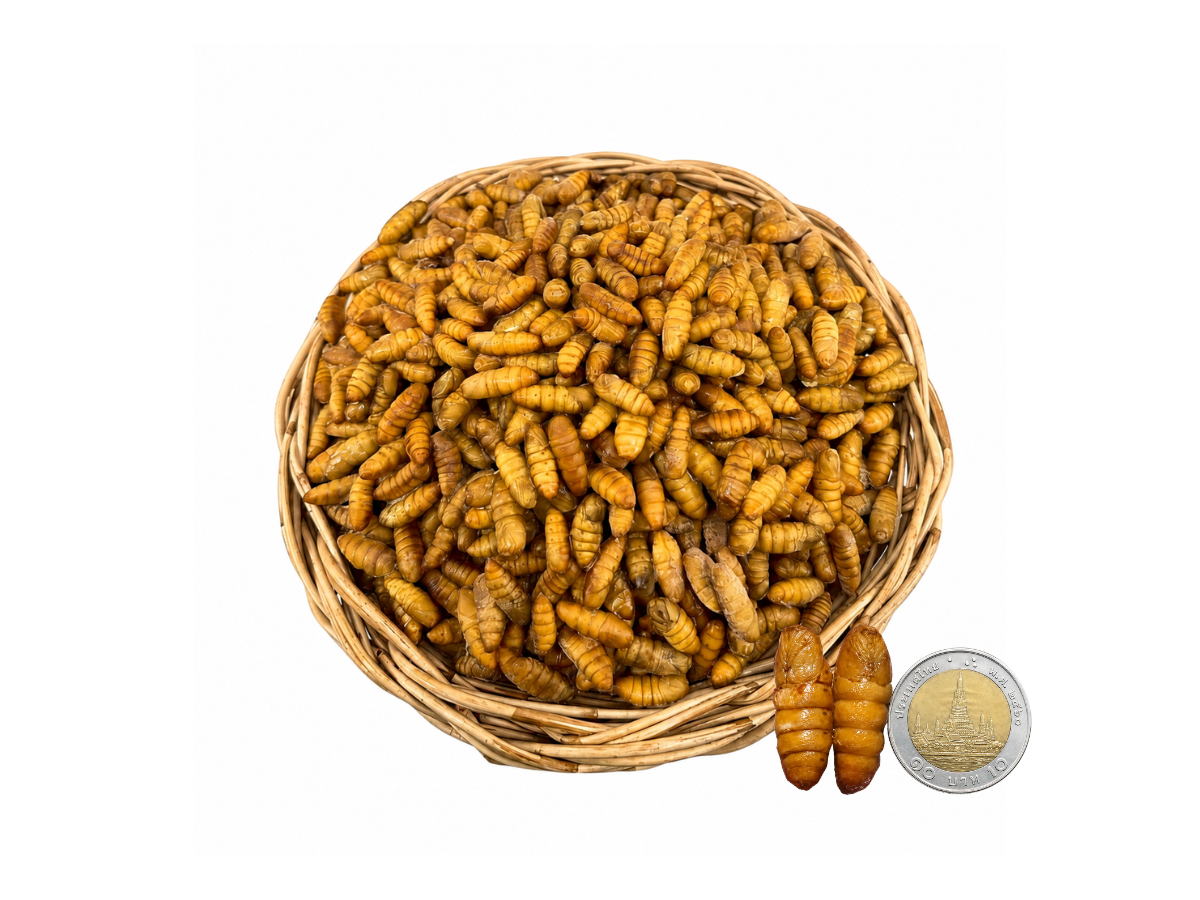
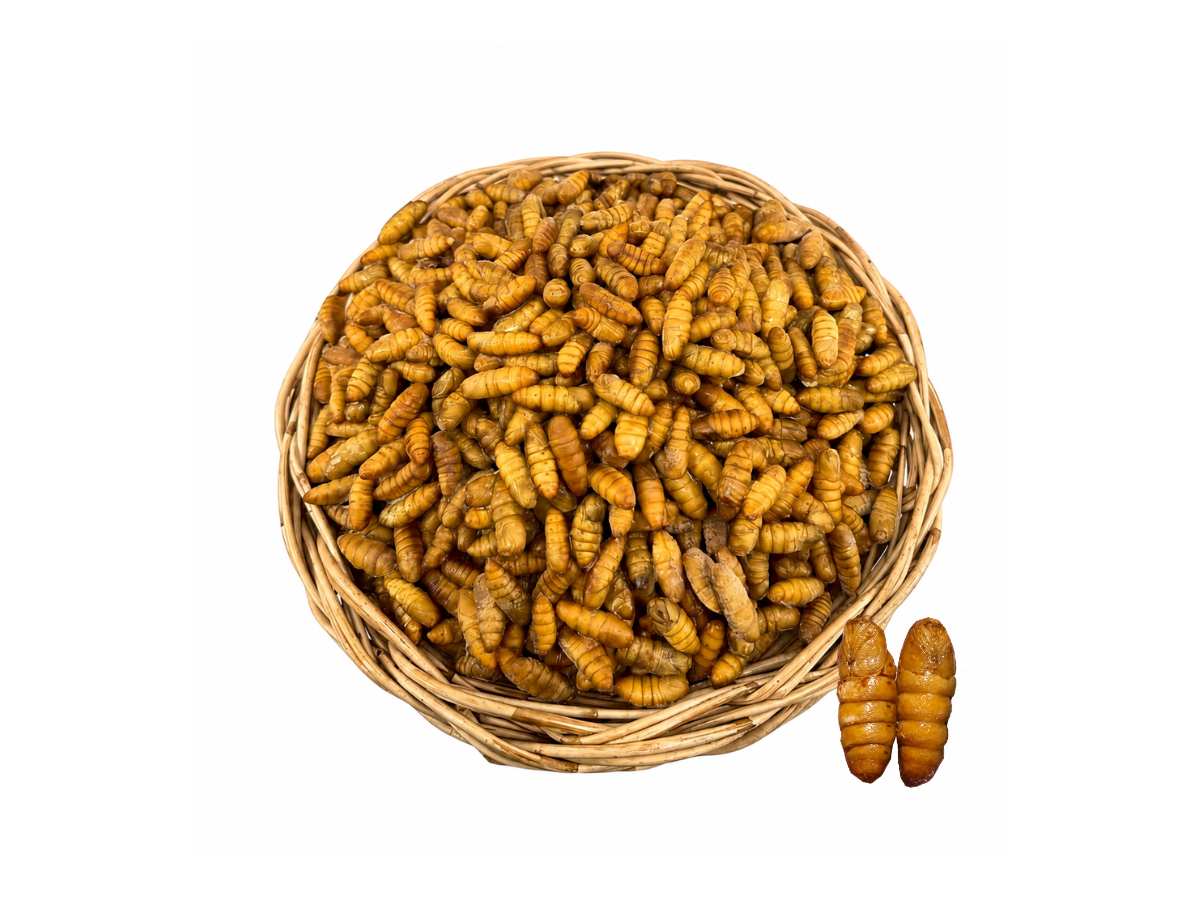
fix(catalog): update silkworm cover image to silkworm2

Changed region(s): [[0.6475, 0.6844, 0.8633, 0.9022]]

diff --git a/src/scripts/fix-silkworm-clean.ts b/src/scripts/fix-silkworm-clean.ts
@@ -25,13 +25,13 @@ try {
 import { getPayload } from 'payload';
 
 async function fixSilkwormClean() {
-  console.log('Initializing Payload for clean silkworm update...');
+  console.log('Initializing Payload for clean silkworm 2 update...');
   const { default: config } = await import('../payload.config');
   const payload = await getPayload({ config });
 
-  const desktopPath = 'C:\\Users\\AVS_KTB\\Desktop\\Sprint\\products\\Silkworm\\หนอนไหม.png';
+  const desktopPath = 'C:\\Users\\AVS_KTB\\Desktop\\Sprint\\products\\Silkworm\\หนอนไหม2.png';
   if (!fs.existsSync(desktopPath)) {
-    console.error('File หนอนไหม.png not found!');
+    console.error('File หนอนไหม2.png not found!');
     return;
   }
   const fileBuffer = fs.readFileSync(desktopPath);
@@ -40,128 +40,40 @@ async function fixSilkwormClean() {
   const cleanFiles = [
     'public/images/products/silkworm.png',
     'public/images/products/silkworm-silkworm.png',
+    'public/images/products/silkworm-1.png',
     'public/media/silkworm.png',
     'public/media/silkworm-silkworm.png',
+    'public/media/silkworm-1.png',
   ];
   for (const relPath of cleanFiles) {
     const fullPath = path.resolve(process.cwd(), relPath);
     fs.writeFileSync(fullPath, fileBuffer);
   }
 
-  // 2. Upload/Create or Update Media document for silkworm
+  // 2. Update Media documents for silkworm
   const existingMedia = await payload.find({
     collection: 'media',
     where: {
       filename: {
-        equals: 'silkworm.png',
+        contains: 'silkworm',
       },
     },
   });
 
-  let mediaId: number;
-  if (existingMedia.docs.length > 0) {
-    mediaId = existingMedia.docs[0].id;
+  for (const doc of existingMedia.docs) {
     await payload.update({
       collection: 'media',
-      id: mediaId,
+      id: doc.id,
       data: {
         alt: 'Frozen silkworm chrysalis seafood product',
-        filename: 'silkworm.png',
-        url: '/api/media/file/silkworm.png',
         filesize: fileBuffer.length,
         mimeType: 'image/png',
       },
     });
-    console.log(`Updated Media doc ID ${mediaId} -> silkworm.png`);
-  } else {
-    const mediaDoc = await payload.create({
-      collection: 'media',
-      data: {
-        alt: 'Frozen silkworm chrysalis seafood product',
-      },
-      file: {
-        data: fileBuffer,
-        name: 'silkworm.png',
-        size: fileBuffer.length,
-        mimetype: 'image/png',
-      },
-    });
-    mediaId = mediaDoc.id;
-    console.log(`Created Media doc ID ${mediaId} -> silkworm.png`);
+    console.log(`Updated Media doc ID ${doc.id} (${doc.filename}) to new silkworm2 buffer`);
   }
 
-  // 3. Update Series 'silkworm' (ID: 48)
-  const seriesDoc = await payload.find({
-    collection: 'series',
-    where: {
-      slug: {
-        equals: 'silkworm',
-      },
-    },
-  });
-  if (seriesDoc.docs.length > 0) {
-    const sId = seriesDoc.docs[0].id;
-    await payload.update({
-      collection: 'series',
-      id: sId,
-      data: {
-        thaiTitle: 'หนอนไหม',
-        englishTitle: 'Frozen Silkworm Chrysalis',
-        image: mediaId,
-        coverImage: mediaId,
-        description: 'หนอนไหมแช่แข็งเกรดคัดสรรพิเศษ อวบอ้วนสะอาด ปลอดภัย',
-      },
-    });
-    console.log(`Updated Series DB ID ${sId} -> หนอนไหม / Frozen Silkworm Chrysalis`);
-  }
-
-  // 4. Update ProductLines 'silkworm' (ID: 40)
-  const lineDoc = await payload.find({
-    collection: 'product-lines',
-    where: {
-      slug: {
-        equals: 'silkworm',
-      },
-    },
-  });
-  if (lineDoc.docs.length > 0) {
-    const lId = lineDoc.docs[0].id;
-    await payload.update({
-      collection: 'product-lines',
-      id: lId,
-      data: {
-        thaiTitle: 'หนอนไหม',
-        englishTitle: 'Frozen Silkworm Chrysalis',
-        coverImage: mediaId,
-        description: 'หนอนไหมแช่แข็งเกรดดีที่สุด ตัวเหลืองอวบอ้วนสะอาด ไม่หักไม่แตก',
-      },
-    });
-    console.log(`Updated ProductLine DB ID ${lId} -> หนอนไหม / Frozen Silkworm Chrysalis`);
-  }
-
-  // 5. Update Variants under silkworm category
-  const varDoc = await payload.find({
-    collection: 'variants',
-    where: {
-      'category.slug': {
-        equals: 'silkworm',
-      },
-    },
-  });
-  for (const v of varDoc.docs) {
-    await payload.update({
-      collection: 'variants',
-      id: v.id,
-      data: {
-        thaiTitle: 'หนอนไหม 10 Kg (AAAAA)',
-        englishTitle: 'Frozen Silkworm Chrysalis 10 Kg (AAAAA)',
-        description: 'หนอนไหมเกรด 5A คัดพิเศษอวบแน่น ตัวสีเหลืองสวย เหมาะสำหรับคั่ว ทอด ปรุงรสตามต้องการ',
-      },
-    });
-    console.log(`Updated Variant DB ID ${v.id} -> หนอนไหม / Frozen Silkworm Chrysalis`);
-  }
-
-  console.log('Silkworm clean fix completed successfully!');
+  console.log('Silkworm 2 clean fix completed successfully!');
   process.exit(0);
 }
 
